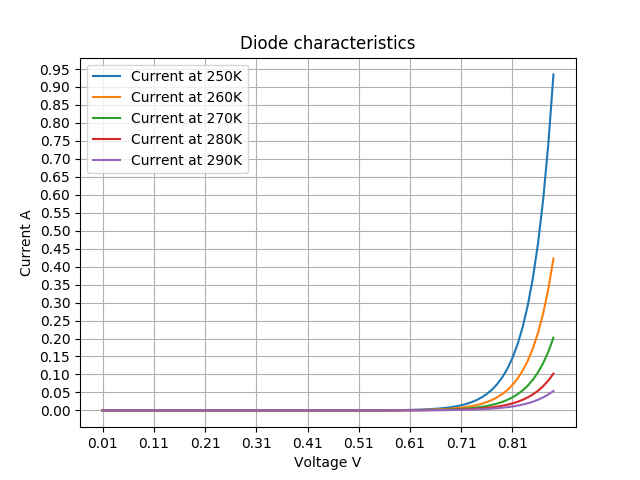
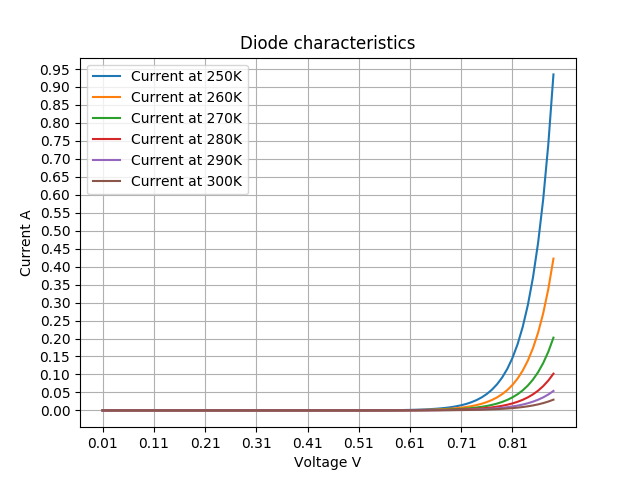
Solved a small problem with the temperatures

Changed region(s): [[0.1562, 0.8438, 0.8438, 0.875], [0.125, 0.3438, 0.375, 0.4062], [0.8438, 0.8125, 0.875, 0.8438]]

diff --git a/Diode.py b/Diode.py
@@ -25,7 +25,7 @@ def shockley(I0, n, T, Vd):
 ''' We will plot the currents for a range of temperatures
     250, 260, 270, 280, 290, 300 K (Kelvin)
 '''
-temps = np.arange(250, 300, 10)
+temps = np.arange(250, 310, 10)
 
 # Plot the result for each temperature
 for T in temps:
